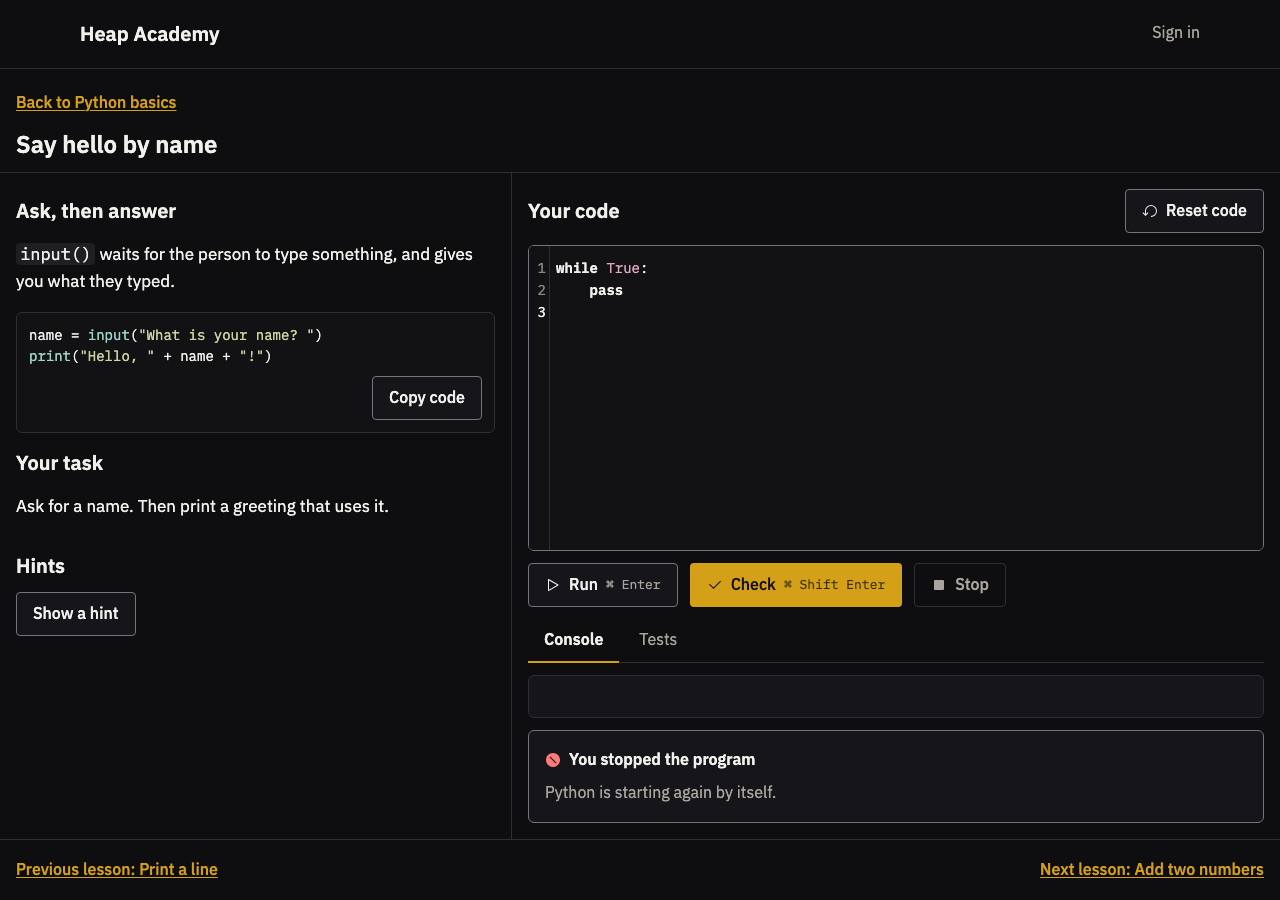
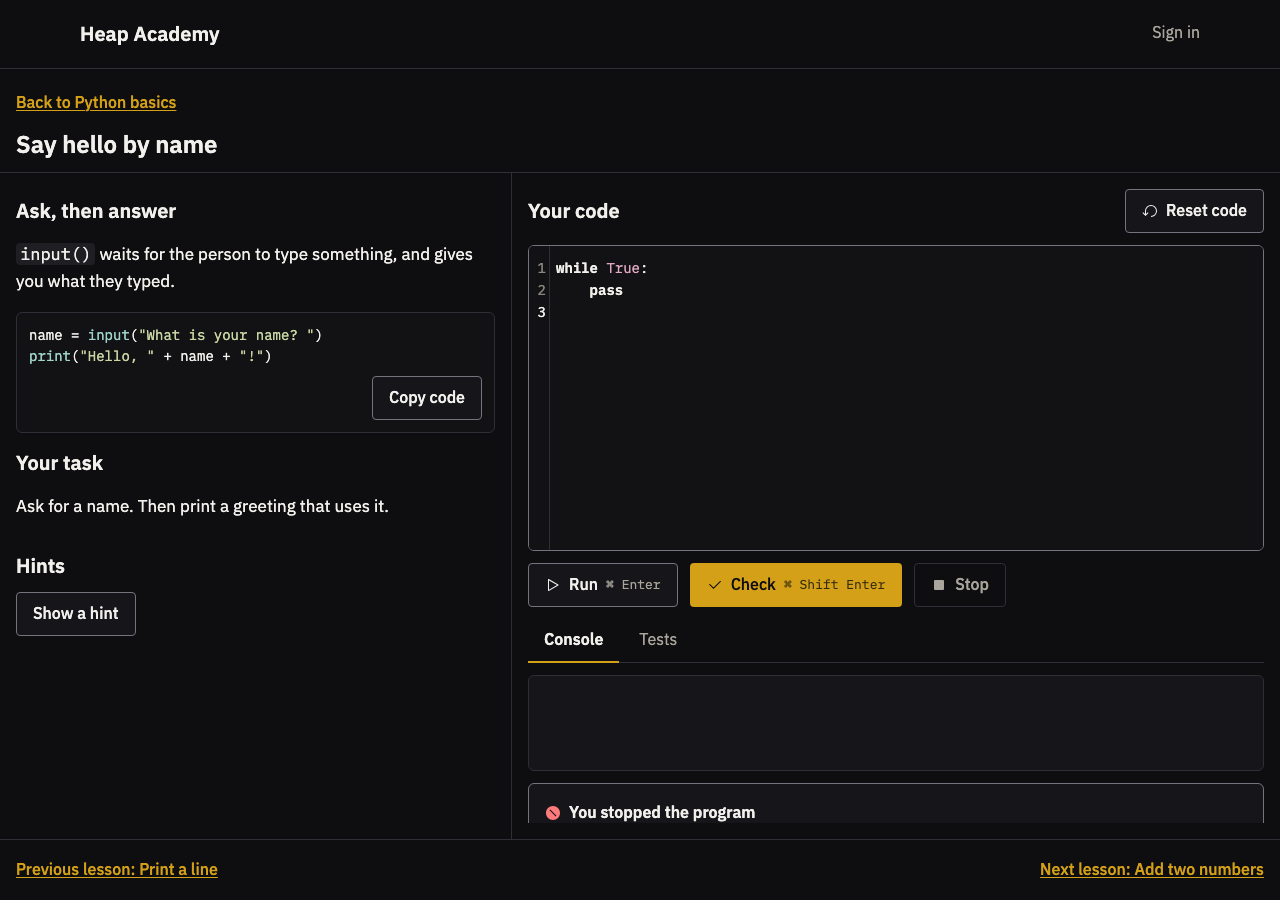
fix(workspace): the editor, output and console floors and the loading bar width are tokens, as the theme has no numeric spacing steps past 8

Changed region(s): [[0.4062, 0.84, 0.5938, 0.9333]]

diff --git a/src/ui/tokens/token-use.test.ts b/src/ui/tokens/token-use.test.ts
@@ -64,3 +64,34 @@ describe("tokens named by utilities", () => {
     expect([...used].filter((name) => !declared.has(name))).toEqual([]);
   });
 });
+
+// The theme replaces Tailwind's spacing scale with named steps (`--spacing-1`
+// to `--spacing-8` and a few named sizes), so a step outside it, such as
+// `min-h-64`, makes no CSS at all and the element has no floor (WP-5.2).
+const SIZED =
+  /(?<![\w-])(?:[a-z]+:)*-?(?:min-|max-)?(?:[hw]|size|inset(?:-[xy])?|top|bottom|left|right|start|end|basis|gap(?:-[xy])?|space-[xy]|scroll-[mp][xytblrse]?|[mp][xytblrse]?|[mp][bi][se])-(\d+(?:\.\d+)?)(?![\w.-])/g;
+
+function offScale(text: string, declared: Set<string>): string[] {
+  return [...text.matchAll(SIZED)]
+    .filter((match) => !declared.has(`--spacing-${match[1] ?? ""}`))
+    .map((match) => match[0]);
+}
+
+describe("numeric spacing and size utilities", () => {
+  it("finds a step the theme does not declare", () => {
+    const declared = new Set(["--spacing-2", "--spacing-4"]);
+    expect(offScale('className="p-4 md:min-h-64 w-48 gap-2 -mbs-9 h-full"', declared)).toEqual([
+      "md:min-h-64",
+      "w-48",
+      "-mbs-9",
+    ]);
+  });
+
+  it("each name a step of the theme's spacing scale", () => {
+    const declared = declaredInRules(css);
+    const found = sources(src).flatMap((file) =>
+      offScale(readFileSync(file, "utf8"), declared).map((utility) => `${file}: ${utility}`),
+    );
+    expect(found).toEqual([]);
+  });
+});

diff --git a/src/features/workspace/components/workspace.tsx b/src/features/workspace/components/workspace.tsx
@@ -298,7 +298,7 @@ export function Workspace({
                 </Button>
               </div>
             )}
-            <div className="min-h-64 md:min-h-0 md:flex-(--workspace-editor-share)">
+            <div className="grid min-h-(--workspace-editor-min) md:min-h-0 md:flex-(--workspace-editor-share)">
               <CodeEditor
                 labelledBy={editorLabel}
                 value={code}
@@ -370,7 +370,7 @@ export function Workspace({
               </Notice>
             )}
 
-            <div className="flex min-h-72 flex-col md:min-h-0 md:flex-(--workspace-output-share)">
+            <div className="flex min-h-(--workspace-output-min) flex-col md:min-h-0 md:flex-(--workspace-output-share)">
               <h2 className="sr-only">{words.output}</h2>
               <Tabs
                 label={words.output}

diff --git a/src/ui/tokens/components.css b/src/ui/tokens/components.css
@@ -54,6 +54,16 @@
   --workspace-rows: auto minmax(0, 1fr) auto;
   --workspace-editor-share: 3;
   --workspace-output-share: 2;
+  /* Below 768 px the editor and the output stack, each with a floor so neither
+     collapses (16 rem and 18 rem). At every width the console keeps four lines
+     (6 rem) above an error card; the panel around it scrolls instead. */
+  --workspace-editor-min: 16rem;
+  --workspace-output-min: 18rem;
+  --workspace-console-min: 6rem;
+  /* A code editor that does not fill its box, as in the admin's lesson editor. */
+  --code-editor-min: 10rem;
+  /* The loading bar beside Python's status. */
+  --python-progress-width: 12rem;
 }
 
 @media (width >= 48rem) {

diff --git a/src/features/workspace/components/console-panel.tsx b/src/features/workspace/components/console-panel.tsx
@@ -67,7 +67,7 @@ export function ConsolePanel({
         tabIndex={0}
         role="region"
         aria-label={words.consoleLabel}
-        className="min-h-0 flex-1 overflow-auto rounded-panel border border-border bg-surface p-3 focus-visible:-outline-offset-2"
+        className="min-h-(--workspace-console-min) flex-1 overflow-auto rounded-panel border border-border bg-surface p-3 focus-visible:-outline-offset-2"
       >
         {empty ? (
           <p className="text-base text-text-muted">{words.consoleEmpty}</p>

diff --git a/src/features/workspace/components/code-editor.tsx b/src/features/workspace/components/code-editor.tsx
@@ -131,7 +131,7 @@ export function CodeEditor({
       <span id={hintId} className="sr-only">
         {words.leaveHint}
       </span>
-      <div ref={host} className={fill ? "min-h-0 flex-1" : "min-h-40"} />
+      <div ref={host} className={fill ? "min-h-0 flex-1" : "min-h-(--code-editor-min)"} />
     </div>
   );
 }

diff --git a/src/features/workspace/components/python-status.tsx b/src/features/workspace/components/python-status.tsx
@@ -39,7 +39,7 @@ export function PythonStatus({
             {words.starting}
           </span>
         ) : (
-          <div className="w-48">
+          <div className="w-(--python-progress-width)">
             <Progress
               label={words.starting}
               value={progress.loadedBytes}
